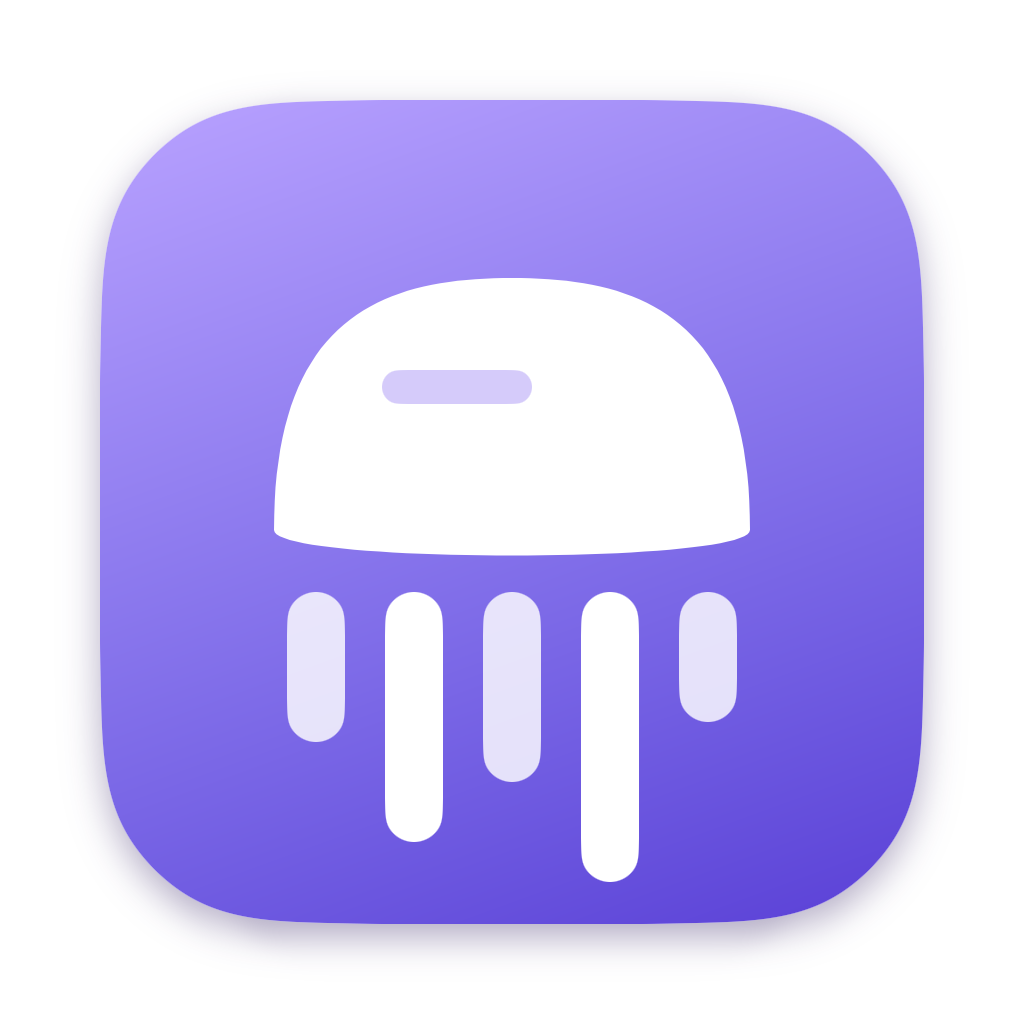
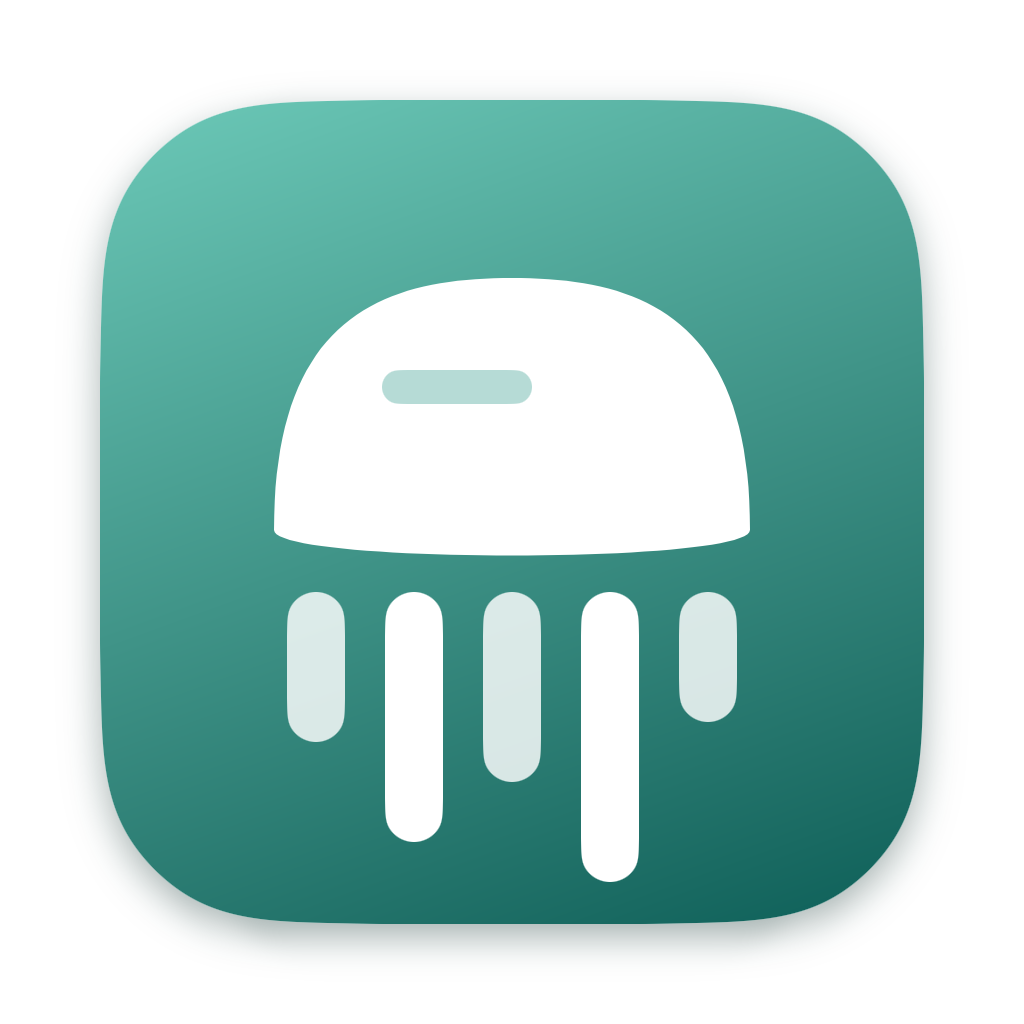
Aurelia 0.4.1
The app's icon in sea glass, as its themes are now; the search shortcuts
that type, a quiet check for downloads, a calmer player bar and a small
window that keeps its rows whole. CHANGELOG and TODO are updated.

diff --git a/tools/mkicon/main.go b/tools/mkicon/main.go
@@ -1,6 +1,7 @@
 // Mkicon draws Aurelia's icon, resources/icon.png: a moon jellyfish, the
 // animal the app is named after, whose tentacles are the bars of a sound
-// level, in the squircle of macOS icons.
+// level, in the squircle of macOS icons, in the sea glass of the
+// app's own themes.
 //
 //	go run ./tools/mkicon
 package main
@@ -19,8 +20,8 @@ func view(c *ui.Context) {
 	c.Root().Background(ui.Transparent)
 	// The squircle of macOS's icon grid: 824 wide, inset by 100.
 	ui.Box(c).Absolute().Left(100).Top(100).Size(824, 824).Radius(186).
-		LinearGradient(ui.LinearGradient{From: ui.Hex("#b9a2ff"), To: ui.Hex("#5a3fd6"), Angle: 160, Oklab: true}).
-		Shadow(0, 14, 36, 0, ui.RGBA(40, 20, 90, 0.35)).
+		LinearGradient(ui.LinearGradient{From: ui.Hex("#6cc9b8"), To: ui.Hex("#0b5f58"), Angle: 160, Oklab: true}).
+		Shadow(0, 14, 36, 0, ui.RGBA(4, 40, 36, 0.35)).
 		Draw(func(p *ui.Painter, r ui.Rect) {
 			white := ui.Hex("#ffffff")
 			cx := r.X + r.W/2
@@ -34,7 +35,7 @@ func view(c *ui.Context) {
 			bell.Close()
 			p.FillPath(&bell, white)
 			// A glint inside the bell.
-			p.Fill(ui.Rect{X: cx - 130, Y: top + 92, W: 150, H: 34}, ui.RGBA(132, 104, 240, 0.34), 17)
+			p.Fill(ui.Rect{X: cx - 130, Y: top + 92, W: 150, H: 34}, ui.RGBA(40, 150, 135, 0.34), 17)
 			// The tentacles: the bars of a sound's level.
 			const bar, gap = 58, 40
 			heights := []float32{150, 250, 190, 290, 130}

diff --git a/CHANGELOG.md b/CHANGELOG.md
@@ -1,5 +1,21 @@
 # Changes
 
+## 0.4.1
+
+- A new look: sea glass, the water of the moon jellyfish Aurelia is named
+  after, in place of the lavender, in the app and its icon. The lavender
+  stays, as Lavender and Lavender Light, and a theme you chose stays yours.
+- "/" and Cmd (Ctrl)+K put the keyboard in the search field at once; Up
+  from the top result goes back to it.
+- Downloaded songs show one quiet check, in their rows and on the album;
+  the color shows only while a download goes on, and one that failed says
+  so and tries again when clicked.
+- A calmer player bar: Now Playing (the record and the lyrics), the queue,
+  a "…" with the sleep timer and the device to play on, and the volume.
+  Lyrics have a quote of their own, and Browse a colored icon.
+- In a small window an album's buttons stay on one line, the song's name
+  shows whole, and Shuffle and Repeat are in the player bar's "…".
+
 ## 0.4.0
 
 - Play plays in order: an album, a playlist or a list plays as it is,

diff --git a/TODO.md b/TODO.md
@@ -36,8 +36,8 @@ app, so each stays here until it is.
       the device to play on), volume.
 - [ ] A small window keeps the album's buttons on one line, the song's
       name whole, and Shuffle in reach.
-- [ ] Sea glass themes by default, the lavender kept as Lavender. The
-      app's icon is still purple: to decide.
+- [ ] Sea glass themes by default, and the app's icon in sea glass; the
+      lavender kept as Lavender.
 
 ### Playing like Spotify
 
